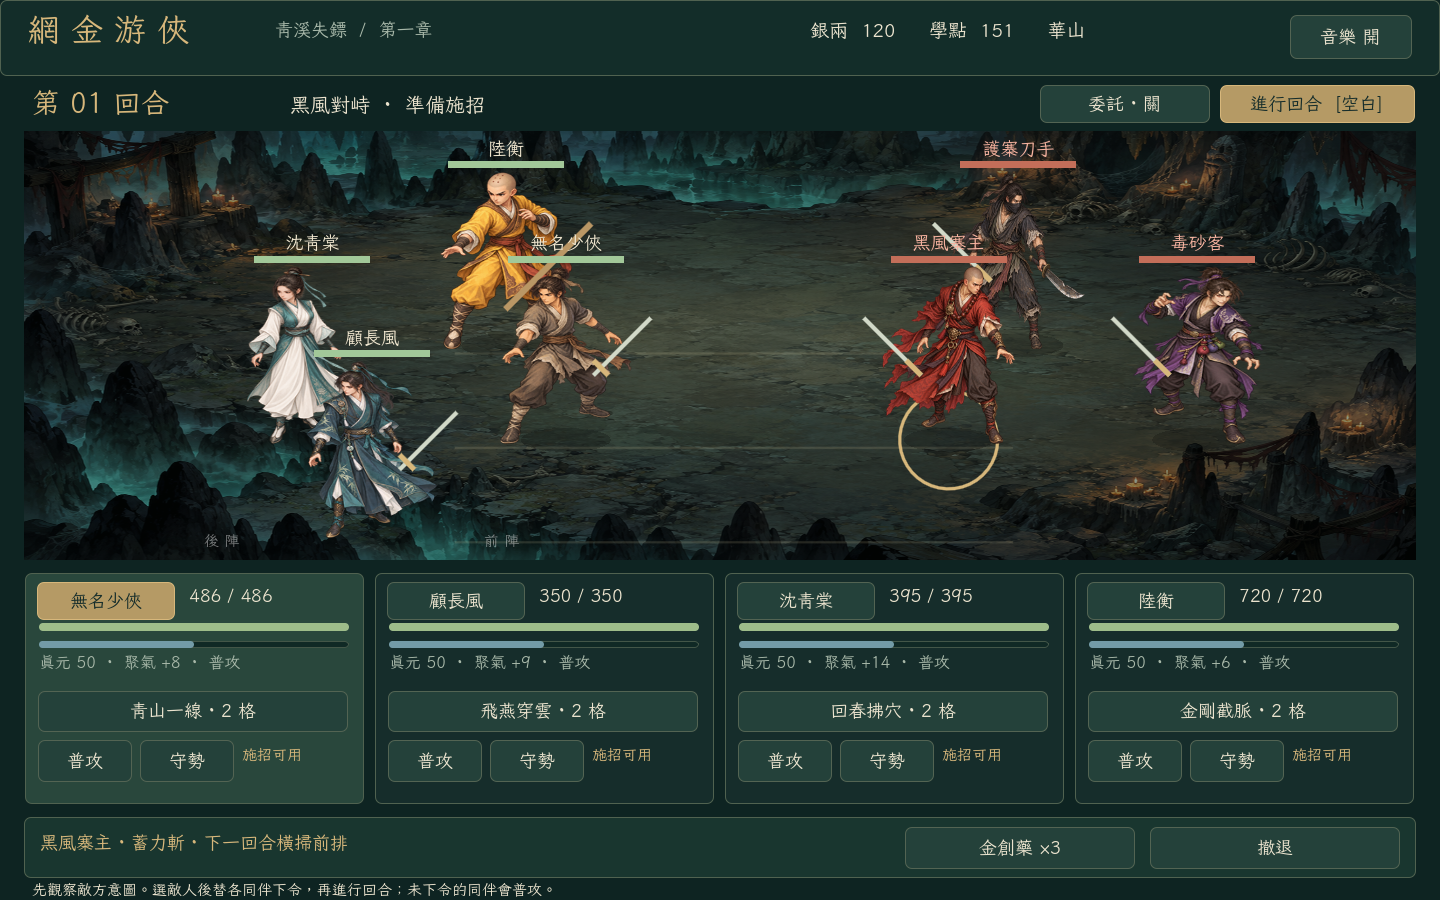
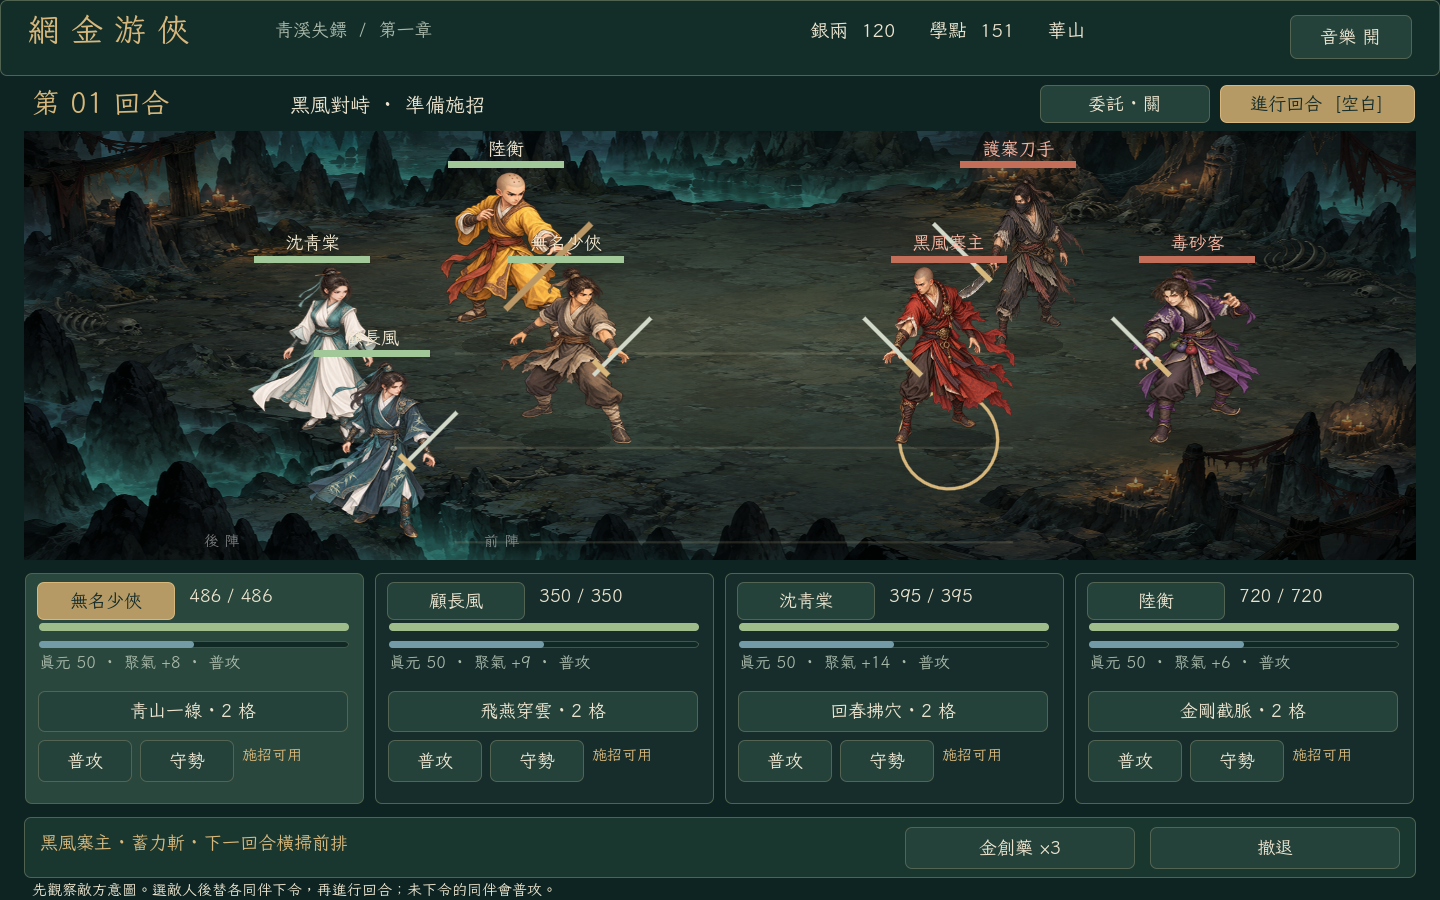
Fix party battle facing and overlapping actor selection

diff --git a/README.md b/README.md
@@ -240,7 +240,7 @@ The launcher isolates development saves and editor caches under `.tools/`; they 
 | Classic UI and controls | [`scripts/classic/`](scripts/classic/) |
 | World catalog and stories | [`data/`](data/) |
 
-See [new chapter rules and research](docs/JOURNEY.md), the [classic development and gameplay manual](docs/DEVELOPMENT.md), the [classic restoration audit](docs/RESTORATION.md), and [v0.7.0 release notes](docs/releases/v0.7.0.md).
+See [new chapter rules and research](docs/JOURNEY.md), the [classic development and gameplay manual](docs/DEVELOPMENT.md), the [classic restoration audit](docs/RESTORATION.md), and [v0.7.1 release notes](docs/releases/v0.7.1.md).
 
 ## Project notes & credits
 

diff --git a/docs/releases/v0.7.1.md b/docs/releases/v0.7.1.md
@@ -1,0 +1,10 @@
+# v0.7.1 · 戰鬥人物朝向修正
+
+修正青溪新章中人物背向對手的問題：我方現在面向右側敵人，敵方面向左側我方。
+
+- 這批原始立繪均朝左，改為只鏡像我方，涵蓋待機、攻擊、受擊和姿勢缺失時的待機替代圖。
+- 保留人物腳下位置、姓名／血條、武器方向與點擊選取範圍的對齊。
+- 人物重疊時優先選取畫在前方的角色，避免點到身後的同伴。
+- 更新 README 實機戰鬥截圖，網頁與 Windows 同步修正。
+
+沿用 v0.7.0 存檔，不重置角色、任務或同伴進度。
